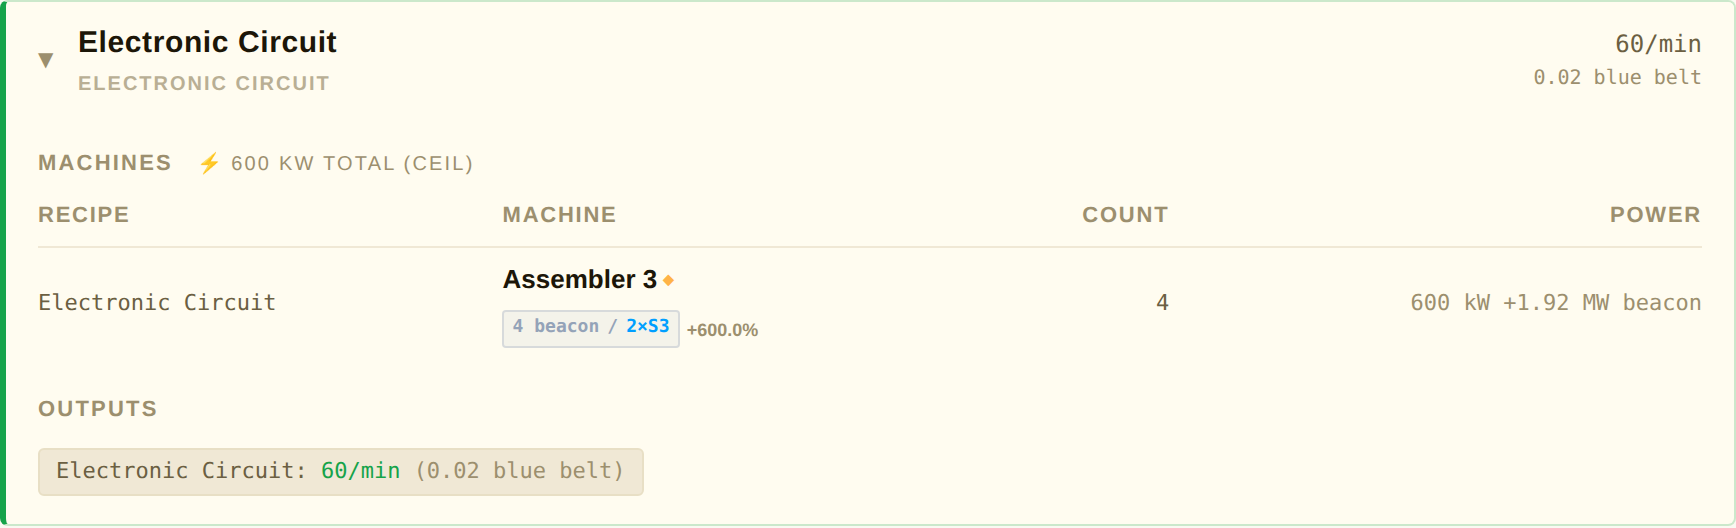
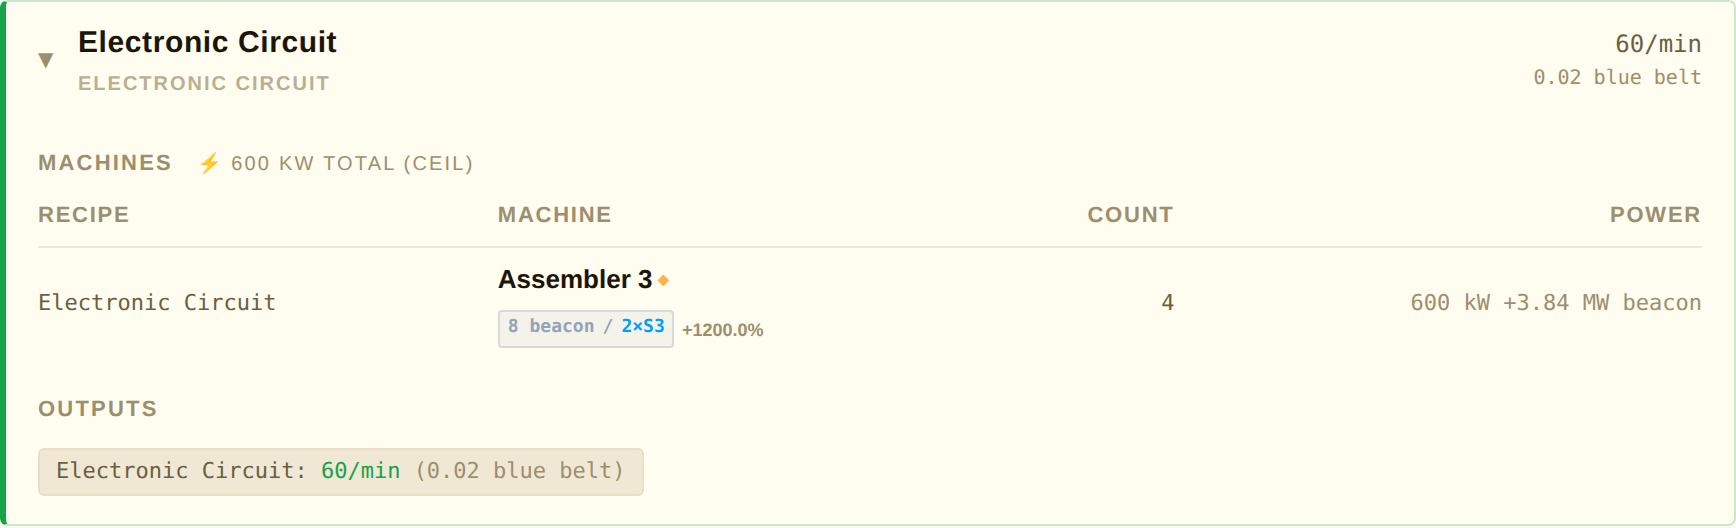
Vary beacon configs by quality; fix module spacing; correct bonus values
- Beacon configs now vary by housing quality: 8/6/5/4/3 beacons for
  normal→legendary, with rare/epic using 1×S3+1×E3 for visual variety
- beacon_speed_bonus and beacon_power_kw now computed from actual
  BEACON_EFFECTIVITY and BEACON_POWER_KW constants instead of hardcoded
- Fix module span spacing in bcnChip: join with \u00a0 so the space
  between two <span> elements isn't stripped by flex whitespace collapsing

https://claude.ai/code/session_01SyKx24fZjBrdm6oV2dN8BW

diff --git a/dev/dashboard.html b/dev/dashboard.html
@@ -637,7 +637,7 @@ function bcnChip(b, housingQ) {
     const color = {speed: '#009FFF', efficiency: '#4CAF50'}[m.type] ?? '#aaa';
     const qdot  = m.quality !== 'normal' ? `<span class="qdot q-${m.quality}">◆</span>` : '';
     return `<span style="color:${color}">${m.count}×${abbr}${m.tier}${qdot}</span>`;
-  }).join(' ');
+  }).join('\u00a0');
   return `<span class="bcn-chip">${b.count}${houseDot} beacon<span class="bcn-sep">/</span>${modsHtml}</span>`;
 }
 

diff --git a/dev/screenshot_tests.py b/dev/screenshot_tests.py
@@ -25,18 +25,36 @@ SCREENSHOTS_DIR = os.path.join(DEV_DIR, "screenshots")
 
 QUALITIES = ["normal", "uncommon", "rare", "epic", "legendary"]
 
-# Beacon spec used for all "with-beacon" cases.
-# 4 beacons × 2 speed-3-normal modules — isolates housing-quality visually.
-BEACON_SPEC = {
-    "count": 4,
-    "modules": [{"count": 2, "type": "speed", "tier": 3, "quality": "normal"}],
+# From cli.py constants
+BEACON_EFFECTIVITY = {"normal": 1.5, "uncommon": 1.7, "rare": 1.9, "epic": 2.1, "legendary": 2.5}
+BEACON_POWER_KW    = {"normal": 480, "uncommon": 400, "rare": 320, "epic": 240, "legendary": 80}
+SPEED3_BONUS = 0.5  # speed-3 bonus per module
+
+# Beacon configs vary by quality: fewer beacons for higher effectivity,
+# some with efficiency modules to show visual variety.
+BEACON_CONFIGS = {
+    "normal":    {"count": 8, "modules": [{"count": 2, "type": "speed",      "tier": 3, "quality": "normal"}]},
+    "uncommon":  {"count": 6, "modules": [{"count": 2, "type": "speed",      "tier": 3, "quality": "normal"}]},
+    "rare":      {"count": 5, "modules": [{"count": 1, "type": "speed",      "tier": 3, "quality": "normal"},
+                                          {"count": 1, "type": "efficiency",  "tier": 3, "quality": "normal"}]},
+    "epic":      {"count": 4, "modules": [{"count": 1, "type": "speed",      "tier": 3, "quality": "normal"},
+                                          {"count": 1, "type": "efficiency",  "tier": 3, "quality": "normal"}]},
+    "legendary": {"count": 3, "modules": [{"count": 2, "type": "speed",      "tier": 3, "quality": "normal"}]},
 }
 
 
 def make_state(machine_quality: str, beacon_quality: str, with_beacon: bool) -> dict:
-    default_beacon   = BEACON_SPEC if with_beacon else None
-    beacon_speed_bonus = 6.0   if with_beacon else 0.0
-    beacon_power_kw    = 1920.0 if with_beacon else 0.0
+    if with_beacon:
+        spec = BEACON_CONFIGS[beacon_quality]
+        effectivity = BEACON_EFFECTIVITY[beacon_quality]
+        speed_mods = sum(m["count"] for m in spec["modules"] if m["type"] == "speed")
+        beacon_speed_bonus = spec["count"] * speed_mods * SPEED3_BONUS * effectivity
+        beacon_power_kw    = spec["count"] * BEACON_POWER_KW[beacon_quality]
+        default_beacon     = spec
+    else:
+        beacon_speed_bonus = 0.0
+        beacon_power_kw    = 0.0
+        default_beacon     = None
 
     step = {
         "recipe": "electronic-circuit",
